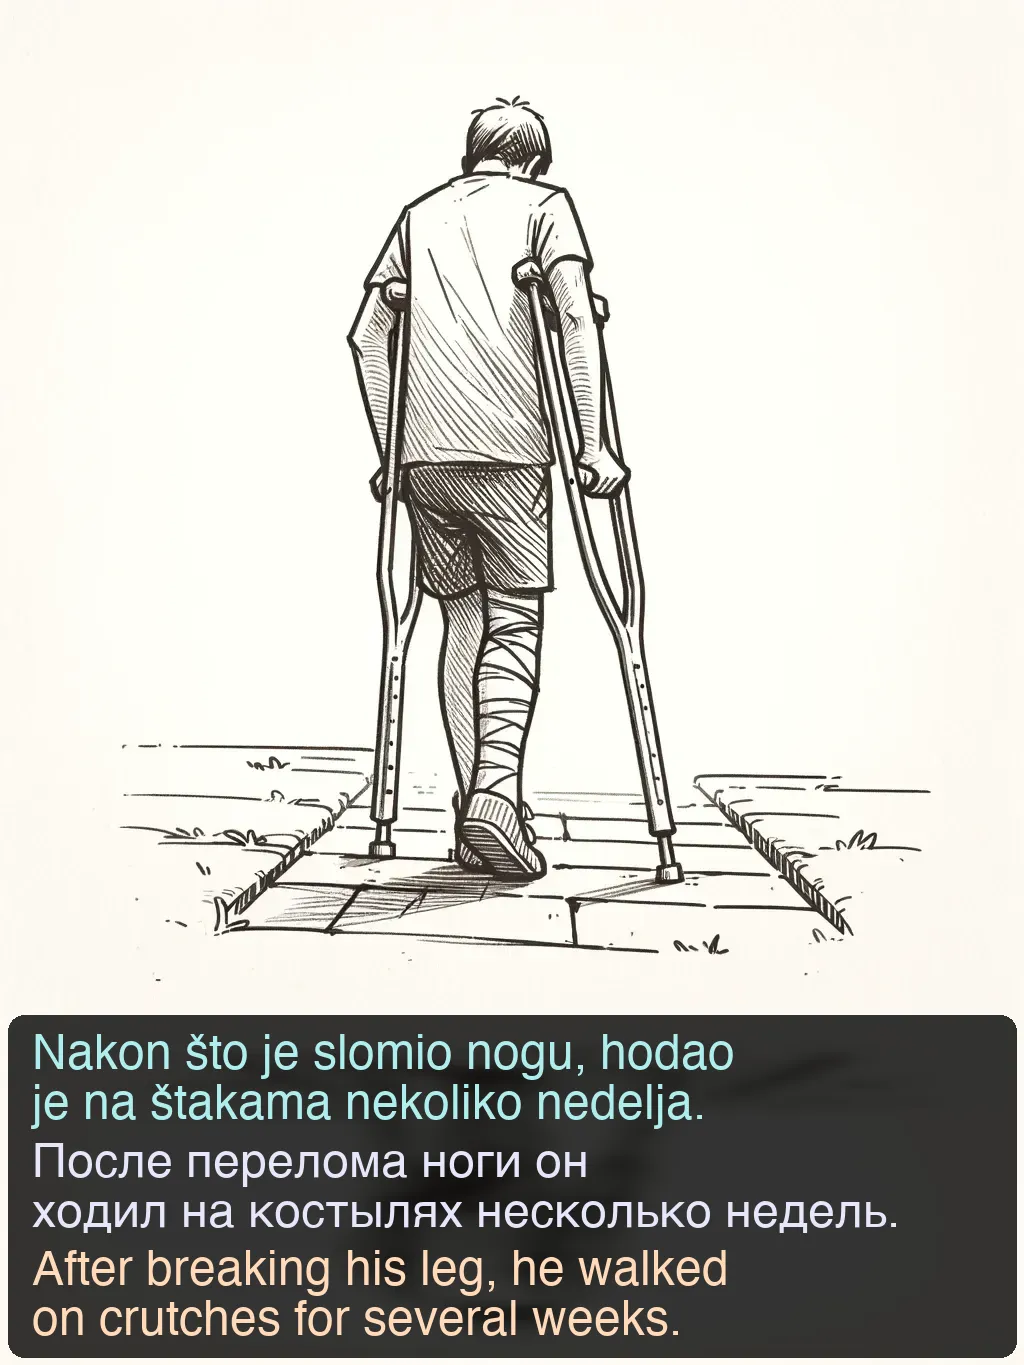
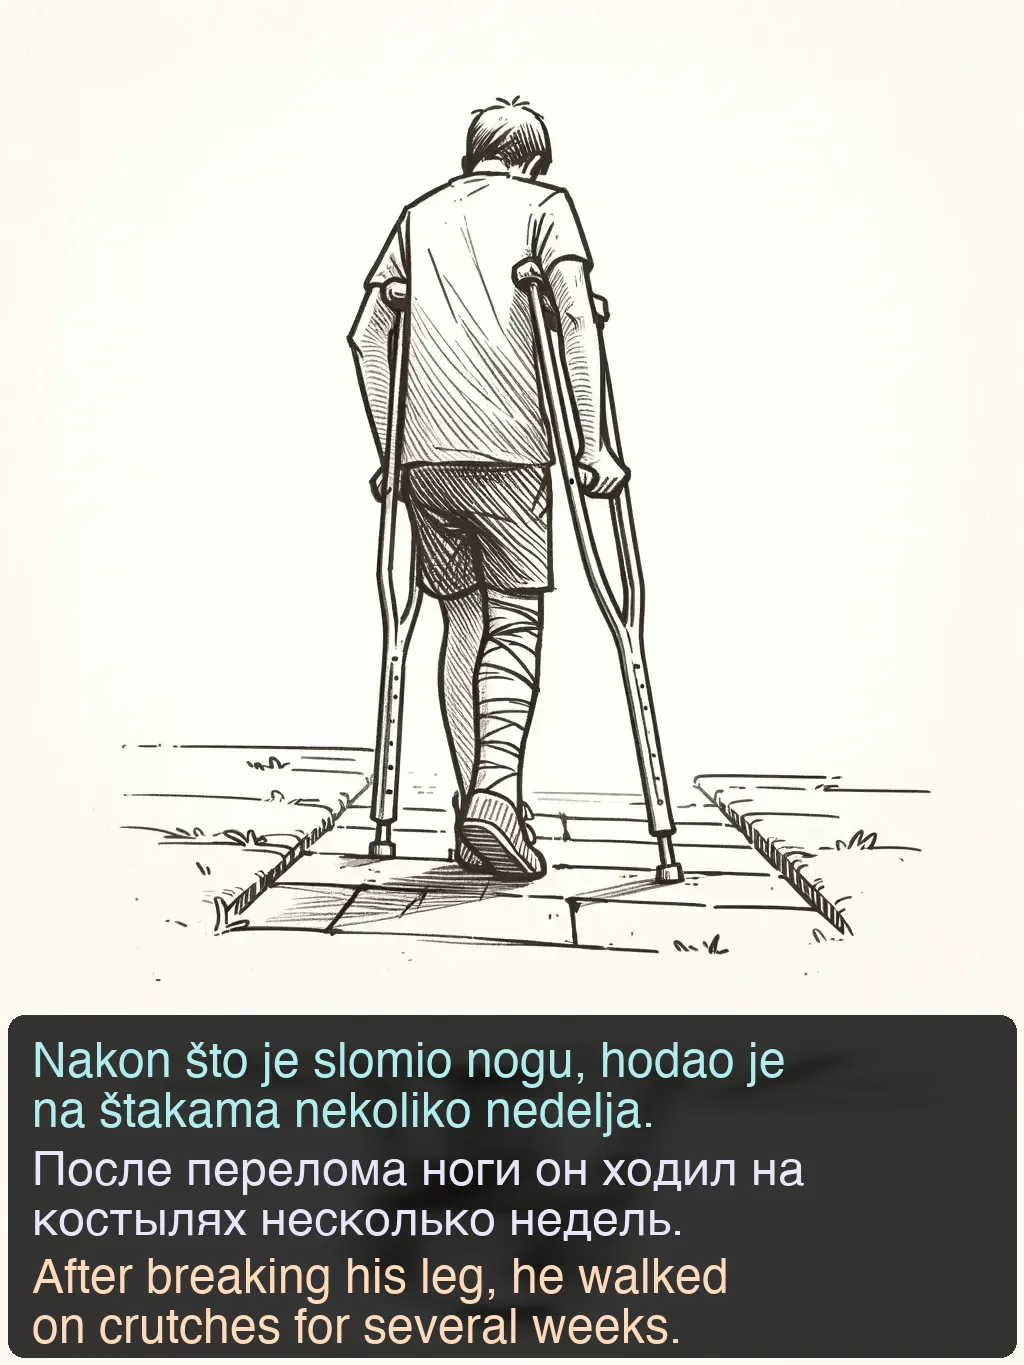
Fix for long sentences

Changed region(s): [[0.0312, 0.7385, 0.875, 0.9846]]

diff --git a/chat-gpt/language-cards/add-text-to-images.py b/chat-gpt/language-cards/add-text-to-images.py
@@ -1,3 +1,4 @@
+import os
 import json
 from PIL import Image, ImageFilter, ImageDraw, ImageFont
 
@@ -12,40 +13,65 @@ def get_text_dimensions(text_string, font):
     return (text_width, text_height)
 
 def split_string_into_parts(s, n_parts):
-    """
-    Разделить строку `s` на `n_parts` примерно равных частей по пробелам.
+    if n_parts <= 1:
+        return [s]
     
-    :param s: Строка для разделения
-    :param n_parts: Количество частей
-    :return: Список частей строки
-    """
-    # Разбиваем строку на слова
-    words = s.split()
-    
-    # Если количество частей больше количества слов, возвращаем слова (каждое слово в отдельной части)
-    if n_parts >= len(words):
-        return words + [''] * (n_parts - len(words))  # Добавляем пустые строки, если частей должно быть больше
-    
-    # Вычисляем примерное количество слов в каждой части
-    words_per_part = len(words) / n_parts
-    
-    # Разделяем слова по частям
+    # Общая длина строки без учета пробелов для более равномерного деления
+    total_length = len(s.replace(" ", ""))
+    part_length = total_length / n_parts
+
     parts = []
-    current_part = []
-    current_length = 0
-    for word in words:
-        current_part.append(word)
-        current_length += len(word)
+    last_index = 0
+    accumulated_length = 0  # Длина накопленных символов без пробелов
+
+    for i in range(1, n_parts):
+        # Планируемая длина для текущей части
+        current_target = part_length * i
         
-        # Проверяем, достигли ли мы примерной длины текущей части
-        if len(current_part) >= round(words_per_part) and len(parts) < n_parts - 1:
-            parts.append(' '.join(current_part))
-            current_part = []
-    
-    # Добавляем оставшиеся слова в последнюю часть
-    parts.append(' '.join(current_part))
-    
+        while accumulated_length < current_target and last_index < len(s):
+            if s[last_index] != " ":
+                accumulated_length += 1
+            last_index += 1
+
+        # Находим ближайший пробел для разделения
+        space_index = s.find(" ", last_index)
+        if space_index == -1:  # Если пробел не найден, используем длину строки
+            space_index = len(s)
+        
+        # Добавляем часть строки до найденного пробела
+        parts.append(s[:space_index].strip())
+        # Обновляем строку, удаляя добавленную часть
+        s = s[space_index:]
+        
+        last_index = 0  # Сбрасываем индекс для новой подстроки
+
+    # Добавляем оставшуюся часть строки
+    parts.append(s.strip())
+
     return parts
+
+def add_text_properties(text, color, new_image_width, font_48, rows, gaps, colors, fonts):
+    text_width, text_height = get_text_dimensions(text, font_48)
+    rows_count = text_width / (new_image_width - 64)
+
+    if rows_count > 2:
+        font_size = 40
+        rows.extend(split_string_into_parts(text, 2))
+        gaps.extend([(8, font_size + 2), (0, font_size + 2), (0, font_size + 2)])
+        colors.extend([color, color])
+        fonts.extend([font_size, font_size])
+    elif rows_count > 1:
+        font_size = 48
+        rows.extend(split_string_into_parts(text, 2))
+        gaps.extend([(8, font_size + 2), (0, font_size + 2)])
+        colors.extend([color, color])
+        fonts.extend([font_size, font_size])
+    else:
+        font_size = 48
+        rows.extend([text])
+        gaps.extend([(font_size * 0.5, font_size * 1.5 + 2)])
+        colors.extend([color])
+        fonts.extend([font_size])
 
 def add_text_to_image(image_path, output_path, text_sr, text_en, text_ru, font_path):
     original_image = Image.open(image_path)
@@ -83,64 +109,45 @@ def add_text_to_image(image_path, output_path, text_sr, text_en, text_ru, font_p
     # Blend this rectangle with the base image
     new_image.paste(rect_image, (0, 0), rect_image)
 
-    font_size = 48
-    font_sr = ImageFont.truetype(font_path, font_size)
+    font_32 = ImageFont.truetype(font_path, 40)
+    font_48 = ImageFont.truetype(font_path, 48)
 
     text_x = 32
     text_y += 16
 
+    # Инициализация списков
     rows = []
     colors = []
     gaps = []
+    fonts = []
 
-    # (230, 230, 250, 225) # Лавандовый
-    # (175, 238, 238, 225) # Бледно-голубой
-    # (255, 218, 185, 225) # Пастельный персик
+    # Параметры
+    lavender = (230, 230, 250, 225)  # Лавандовый
+    pale_blue = (175, 238, 238, 225)  # Бледно-голубой
+    pastel_peach = (255, 218, 185, 225)  # Пастельный персик
 
-    text_width, text_height = get_text_dimensions(text_sr, font_sr)
-    if text_width > new_image.width - 32:
-        rows.extend(split_string_into_parts(text_sr, 2))
-        gaps.extend([(0, font_size + 2), (0, font_size + 2)])
-        colors.extend([(175, 238, 238, 225), (175, 238, 238, 225)])
-    else:
-        rows.extend([text_sr])
-        gaps.extend([(font_size * 0.5, font_size * 1.5 + 2)])
-        colors.extend([(175, 238, 238, 225)])
-
-    text_width, text_height = get_text_dimensions(text_ru, font_sr)
-    if text_width > new_image.width - 32:
-        rows.extend(split_string_into_parts(text_ru, 2))
-        gaps.extend([(8, font_size + 2), (0, font_size + 2)])
-        colors.extend([(230, 230, 250, 225), (230, 230, 250, 225)])
-    else:
-        rows.extend([text_ru])
-        gaps.extend([(font_size * 0.5, font_size * 1.5 + 2)])
-        colors.extend([(230, 230, 250, 225)])
-
-    text_width, text_height = get_text_dimensions(text_en, font_sr)
-    if text_width > new_image.width - 32:
-        rows.extend(split_string_into_parts(text_en, 2))
-        gaps.extend([(8, font_size + 2), (0, font_size + 2)])
-        colors.extend([(255, 218, 185, 225), (255, 218, 185, 225)])
-    else:
-        rows.extend([text_en])
-        gaps.extend([(font_size * 0.5, font_size * 1.5 + 2)])
-        colors.extend([(255, 218, 185, 225)])
+    # Вызов функции для каждого блока текста
+    add_text_properties(text_sr, pale_blue, new_image.width, font_48, rows, gaps, colors, fonts)
+    add_text_properties(text_ru, lavender, new_image.width, font_48, rows, gaps, colors, fonts)
+    add_text_properties(text_en, pastel_peach, new_image.width, font_48, rows, gaps, colors, fonts)
 
     for i, r in enumerate(rows):
         top, bottom = gaps[i]
         text_y += top
-        draw.text((text_x, text_y), r, fill=colors[i], font=font_sr)
+        draw.text((text_x, text_y), r, fill=colors[i], font=(font_48 if fonts[i] == 48 else font_32))
         text_y += bottom
 
     # Save the image
     new_image.save(output_path)
 
-with open('language-images.json', 'r', encoding='utf-8') as file:
+script_dir = os.path.dirname(os.path.abspath(__file__))
+
+json_file = os.path.join(script_dir, 'language-images.json')
+with open(json_file, 'r', encoding='utf-8') as file:
     data = json.load(file)
 
-source_folder = 'source-images/'
-result_folder = 'result-images/'
+source_folder = os.path.join(script_dir, 'source-images/')
+result_folder = os.path.join(script_dir, 'result-images/')
 font_path = '/System/Library/Fonts/Helvetica.ttc'
 
 for item in data:
